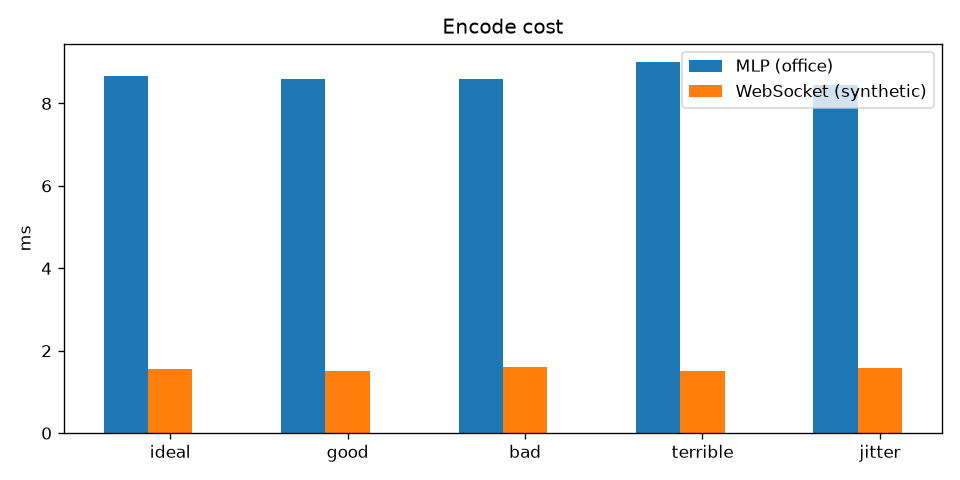
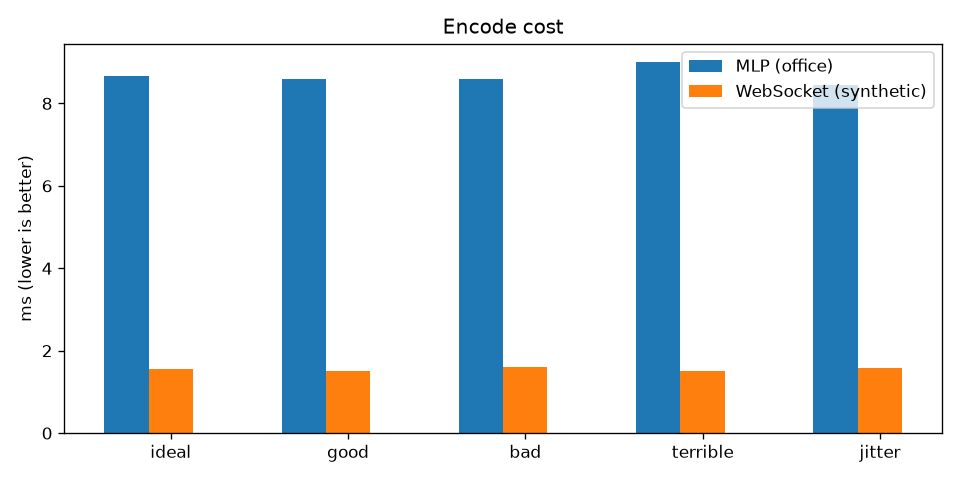
Annotate graphs: lower/higher is better

diff --git a/results/plot_all.py b/results/plot_all.py
@@ -23,7 +23,7 @@ ax.bar([i-w for i in x], mlp_med, w, label='MLP')
 ax.bar([i for i in x], ws_med, w, label='WebSocket')
 ax.bar([i+w for i in x], raw_med, w, label='Raw')
 ax.set_xticks(x); ax.set_xticklabels(scenarios)
-ax.set_ylabel('ms'); ax.set_title('Median e2e latency')
+ax.set_ylabel('ms (lower is better)'); ax.set_title('Median e2e latency')
 ax.legend()
 plt.tight_layout(); plt.savefig('results/latency_med.png', dpi=120)
 
@@ -32,7 +32,7 @@ fig, ax = plt.subplots(figsize=(8,4))
 ax.bar([i-w for i in x], mlp_p95, w, label='MLP')
 ax.bar([i for i in x], ws_p95, w, label='WebSocket')
 ax.set_xticks(x); ax.set_xticklabels(scenarios)
-ax.set_ylabel('ms'); ax.set_title('p95 e2e latency')
+ax.set_ylabel('ms (lower is better)'); ax.set_title('p95 e2e latency')
 ax.legend()
 plt.tight_layout(); plt.savefig('results/latency_p95.png', dpi=120)
 
@@ -42,7 +42,7 @@ ax.bar([i-w for i in x], mlp_heals, w, label='MLP')
 ax.bar([i for i in x], ws_heals, w, label='WebSocket')
 ax.bar([i+w for i in x], raw_heals, w, label='Raw')
 ax.set_xticks(x); ax.set_xticklabels(scenarios)
-ax.set_ylabel('heals'); ax.set_title('Heal count (20 iters)')
+ax.set_ylabel('heals (lower is better)'); ax.set_title('Heal count (20 iters)')
 ax.legend()
 plt.tight_layout(); plt.savefig('results/heals.png', dpi=120)
 
@@ -51,14 +51,14 @@ fig, ax = plt.subplots(figsize=(8,4))
 ax.bar([i-w for i in x], mlp_enc, w, label='MLP (office)')
 ax.bar([i for i in x], ws_enc, w, label='WebSocket (synthetic)')
 ax.set_xticks(x); ax.set_xticklabels(scenarios)
-ax.set_ylabel('ms'); ax.set_title('Encode cost')
+ax.set_ylabel('ms (lower is better)'); ax.set_title('Encode cost')
 ax.legend()
 plt.tight_layout(); plt.savefig('results/encode.png', dpi=120)
 
 # 5. bytes
 fig, ax = plt.subplots(figsize=(6,4))
 ax.bar(['MLP','WebSocket','Raw'], [813,727,727], color=['#4c72b0','#dd8452','#55a868'])
-ax.set_ylabel('bytes'); ax.set_title('Bytes on wire per update')
+ax.set_ylabel('bytes (lower is better)'); ax.set_title('Bytes on wire per update')
 plt.tight_layout(); plt.savefig('results/bytes.png', dpi=120)
 
 print("done")
